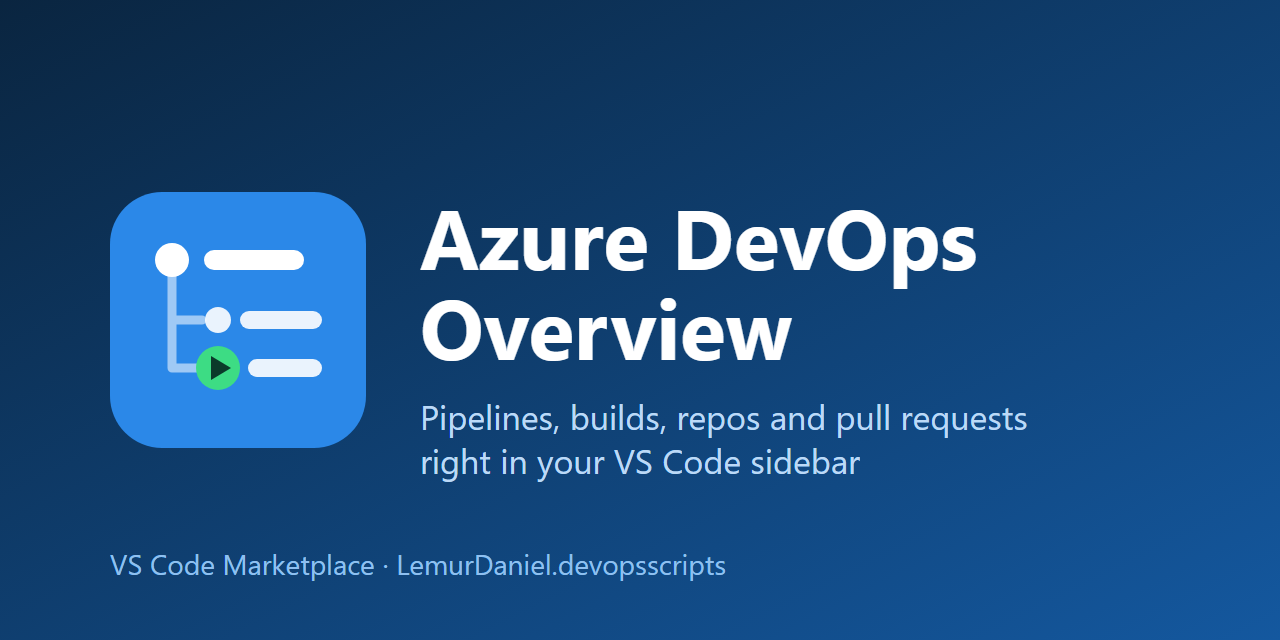
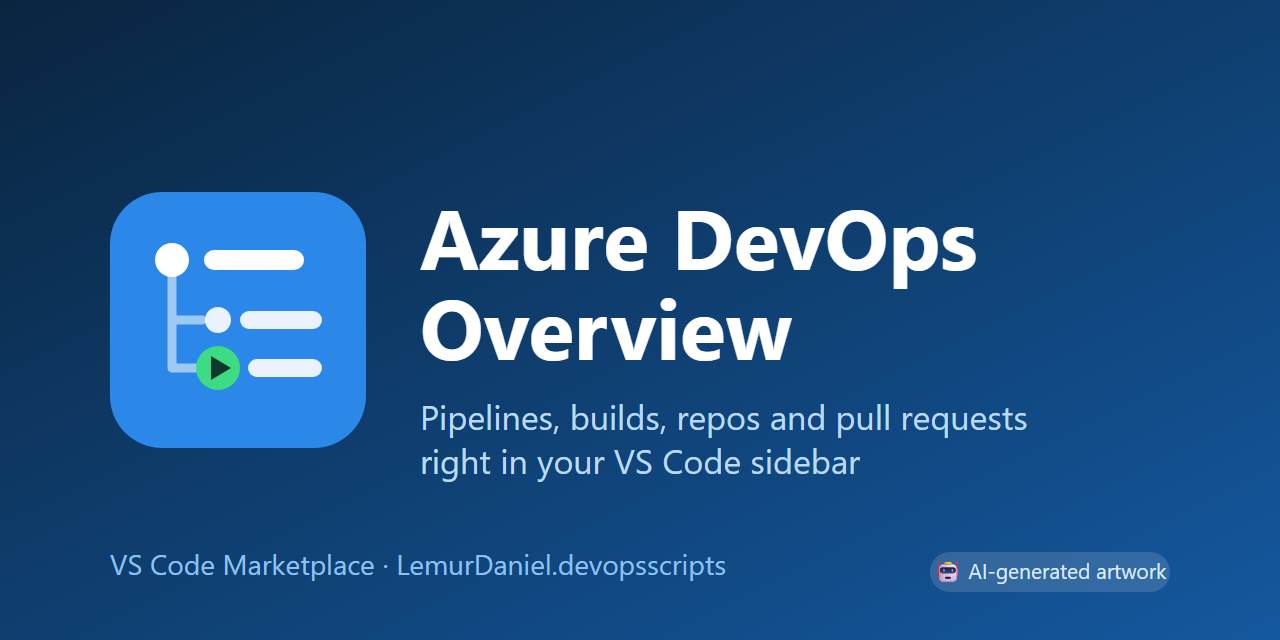
Mark social preview as AI-generated artwork

Changed region(s): [[0.7188, 0.8438, 0.9375, 0.9375]]

diff --git a/CHANGELOG.md b/CHANGELOG.md
@@ -9,7 +9,7 @@ The format follows [Keep a Changelog](http://keepachangelog.com/), versions foll
 ### Added
 
 - Own extension icon and a monochrome activity bar icon that follows the VSCode theme.
-- README with banner, badges and a feedback section.
+- README with banner (marked as AI-generated artwork), badges and a feedback section.
 - Releases are now also created on GitHub (with the `.vsix` attached) by the publish pipeline.
 
 ### Changed
